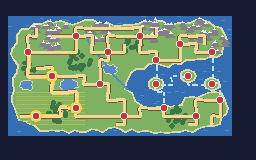
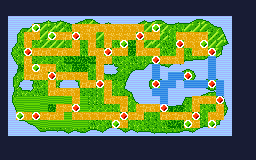
Restyle the Veldris layout like the game's own town map
Keep the organic crescent shape and redraw it the way the GBA town map
looks (and like the author's example): striped sea, textured land,
orange bands for land routes, blue bands for sea routes, red round town
markers, green markers at the end of side paths. Colours come from
vanilla's own palette.

- Town names: the game prints them at run time in FONT_NORMAL, the GBA
  font, so they are not in the picture and match automatically. The
  labelled image is drawn with the game's own font sheets
  (graphics/fonts/latin_normal.png, latin_small.png) so the names read
  as they will in game.
- The picture is built from a few repeating tile patterns plus coast
  tiles: 148 distinct 8x8 tiles against the limit of 256 (vanilla Hoenn
  uses 215), 16 colours. The previous version needed 324 and would not
  have fit.
- New technical view of the 28x15 cell grid with coordinate rulers.

Docs and images only. make -j4 passes and the ROM hash is unchanged.

Claude-Session: https://claude.ai/code/session_014YcreEDyg7XZX9D8bbNtFg

diff --git a/design/region-map.md b/design/region-map.md
@@ -70,22 +70,30 @@ Recommendation: **A**, and reuse vanilla IDs for the remainder once the spare ID
 
 # Veldris layout proposal (PROPOSED, not approved)
 
-**Version 2.** The first version was a lattice: evenly spaced towns joined by ruler-straight routes. This one replaces it with a shape that has a character of its own.
+**Version 3.** The same organic shape as version 2 (a crescent of land around an inland bay, placeholder name Marrow Bay), redrawn in the style of the game's own town map and of the example you sent: striped sea, textured green land, wide bands for routes, round markers for towns. It replaces the lattice of version 1 and the thin smooth roads of version 2.
 
-**The shape:** a crescent of land wrapped around an inland bay (placeholder name: Marrow Bay). The start is farmland in the south-west. Mountains run along the north coast and out to the north-east tip. The south arm curls around to a south-eastern peninsula. Three small islands sit in the bay for later. A river runs from the northern hills to the bay, and there are lakes and forest patches. Roads wind around all of it.
-
-**Native size, 256x160** (the whole Pokénav screen). The first three towns and routes have a gold outline.
+**The picture as it would sit in the game** (native 256x160, no text baked in):
 
 ![Veldris at 256x160](veldris-layout-256x160.png)
 
-**Labelled, 4x** ([open it full size](veldris-layout-annotated.png)):
+**Labelled, with the game's own font** ([open it full size](veldris-layout-annotated.png)). The first three towns have gold plates. Other towns are T4 to T18, and routes are R1 to R33:
 
 ![Veldris, labelled](veldris-layout-annotated.png)
 
+**The 28 x 15 cell grid the game stores**, with coordinates, for the Region Map Editor step ([full size](veldris-layout-cells.png)):
+
+![Veldris cells](veldris-layout-cells.png)
+
+## Style and names
+
+- **Style.** Striped sea, textured land, **orange bands** for land routes, **blue bands** for sea routes, **red round markers** for towns, **green markers** at the end of each side path (a cove, a cave mouth). The colours are taken from vanilla's own town-map palette (16 colours, where Hoenn's picture uses 27). The colour meanings are proposals. Your example uses pink rectangles for cities and green squares for landmarks, and recolouring to that is a palette change.
+- **Town names use the GBA font automatically.** They are not part of the picture. The engine prints the name of the section under the cursor at run time, in `FONT_NORMAL` (the game's font), into its own name windows (`WIN_MAPSEC_NAME` and `WIN_MAPSEC_NAME_TALL` in `src/region_map.c`). So there is nothing to draw and nothing to match. The labelled image above is drawn with the game's own font sheets (`graphics/fonts/latin_normal.png` and `latin_small.png`, glyph widths from `src/fonts.c`) so you can see how the names read. The plates are for the mockup only.
+- **Names** are at most 16 characters, in capitals like vanilla (`LITTLEROOT TOWN`), and charmap characters only. The names on the plates for towns 4 to 18 are placeholders.
+
 ## Why it is not a grid
 
-- **The picture and the cells are separate things.** The picture is painted from 8x8 tiles, so the coastline, islands and roads can be any shape. The 28 x 15 cells only tell the game which section the cursor is on. They are never drawn ([technical view of the cells](veldris-layout-cells.png), for the Region Map Editor step).
-- Towns sit where the land wants them, not on a lattice. Routes wind around lakes, forest and mountains. Each route is a staircase of touching cells, which reads as a bend or a diagonal on the picture.
+- **The picture and the cells are separate things.** The picture is painted from 8x8 tiles, so the coastline, islands and lakes can be any shape. The 28 x 15 cells only tell the game which section the cursor is on. The grid is never drawn in the game.
+- Towns sit where the land wants them, not on a lattice. Routes wind around lakes, forest and mountains as bands of touching cells, the way vanilla's routes do.
 - **"Zoomed out":** each cell stands for a big stretch of land, so a town is one cell and a route is a few bent cells. The 28 x 15 size itself is fixed by the engine (`MAP_WIDTH` and `MAP_HEIGHT` in `src/region_map.c`). If you meant a bigger map area than that, it needs an engine edit, so say so and I will look at what it costs.
 
 ## Numbers
@@ -94,8 +102,9 @@ Recommendation: **A**, and reuse vanilla IDs for the remainder once the spare ID
 - Checked by script: every route sits on the right terrain (land or sea), routes never overlap, every route touches its towns, every town is reachable from town 1, and no town has more than 4 routes (a town is one cell, so only its 4 neighbours can hold a route).
 - Numbers are placeholders. Only routes 1 to 3 are meaningful: town 1 to 2, town 2 to 3 (Crestfall), and town 3 onwards to town 4, which stays blocked at first.
 - **Section budget:** 51 sections against about 43 spare IDs. See "Limits found" above. The first 6 fit easily.
-- **Tile budget (measured):** as painted, this mockup uses 324 distinct 8x8 tiles inside the map area, over the 256 limit. It is a shape guide, not final art. Its smooth coastline and roads make every tile unique, which tile art avoids by reusing a few coast and road pieces (Hoenn does it in 233 tiles). The finished picture needs roughly a fifth fewer distinct tiles than this mockup, so keep textures repetitive.
+- **Tile budget (measured):** the picture uses **148 distinct 8x8 tiles** in the map area against the limit of 256 (vanilla Hoenn uses 215), and 16 colours. It is built from a handful of repeating patterns (land, forest, mountain, farm, route, sea) plus the coast tiles, so it fits. Version 2's smooth coast and roads needed 324 and would not have. It is still a mockup: the real picture is painted with tiles in the Region Map Editor.
 - A winding route's rectangle is the bounding box of its cells, exactly as Hoenn does it (52 of Hoenn's 54 section rectangles equal the bounding box of their cells; Route 114 is a 4-cell bend inside a 2x3 box). The player marker is placed inside that box, so on a bent route it may not sit exactly on the road. Untested in game.
+- The labelled image leaves off the numbers of R22, R24, R27, R29 and R33, which are too short to fit a label. The tables below list every route.
 
 ## Section list
 
@@ -256,3 +265,4 @@ These are the six records for `src/data/region_map/region_map_sections.json`. Th
 2. Are Hollowbrook and Wendlebury fine as names for towns 1 and 2, and Marrow Bay for the bay? (Crestfall comes from your `TRAINER_CRESTFALL_GRETA`.)
 3. What did you mean by zooming out? If you want more than 28 x 15 cells, that is an engine edit.
 4. Decision A or B above for fly towns.
+5. Colours: keep the vanilla GBA look (red towns, orange routes), or switch to your example's pink cities and green squares?
